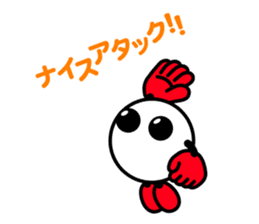
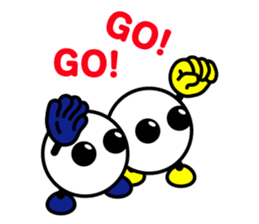
スタンプ送信画面実装

Changed region(s): [[0.1236, 0.0312, 0.8649, 0.9688]]

diff --git a/develop.html b/develop.html
@@ -38,12 +38,59 @@
 	</head>
 
 	<body>
+	<!-- 		スタンプ送信 -->
+		<div id="sendstamp">
+			<table>
+				<tbody>
+					<tr>
+						<td class="stamp">
+							<img src="html/image/babo/sticker_0.png">
+						</td>
+						<td class="stamp">
+							<img src="html/image/babo/sticker_1.png">
+						</td>
+						<td class="stamp">
+							<img src="html/image/babo/sticker_2.png">
+						</td>
+						<td class="stamp">
+							<img src="html/image/babo/sticker_3.png">
+						</td>
+					</tr>
+					<tr>
+						<td class="stamp">
+							<img src="html/image/babo/sticker_4.png">
+						</td>
+						<td class="stamp">
+							<img src="html/image/babo/sticker_5.png">
+						</td>
+						<td class="stamp">
+							<img src="html/image/babo/sticker_6.png">
+						</td>
+						<td class="stamp">
+							<img src="html/image/babo/sticker_7.png">
+						</td>
+					</tr>
+					<tr>
+						<td class="stamp">
+							<img src="html/image/babo/sticker_8.png">
+						</td>
+						<td class="stamp">
+							<img src="html/image/babo/sticker_9.png">
+						</td>
+						<td class="stamp"></td>
+						<td class="stamp"></td>
+					</tr>
+				</tbody>
+			</table>
+		</div>    
+		<!-- 		カメラ領域 -->
 		<video id="video" autoplay playsinline style="z-index: -2; height:100%; position:absolute; top:0px; left:0px; width: 100%;"></video>
+		<!-- 		スタンプアニメーション -->
 	  <div id="container" style="z-index: -1; height:100%; position:absolute; top:0px; left:0px; width: 100%; background: none;" class="main"></div>    
 	</body>
 	
 	<script type="text/javascript">
 			ThreeDD.main();
 			videoStart();
-		</script>
+	</script>
 </html>

diff --git a/html/js/camera.js b/html/js/camera.js
@@ -3,19 +3,17 @@ function videoStart(){
 	const medias = {
 		audio : false,
 		video : {
-      facingMode: {
-        exact : "environment" // リアカメラにアクセス
-      }
-    }
+	      facingMode: {
+	        exact : "environment" // リアカメラにアクセス
+	      }
+	    }
 	};
 
-	debugger;
 	video  = document.getElementById("video");
 	navigator.getUserMedia(medias, successCallback, errorCallback);	
 }
 
 function successCallback(stream) {
-	debugger;
   video.srcObject = stream;
 };
 

diff --git a/html/css/dashboard.css b/html/css/dashboard.css
@@ -404,3 +404,31 @@ div.element div.loader{
 	position: absolute;
 	top: 20px;
 }
+
+/* スタンプの幅を最適化 */
+#sendstamp{
+	z-index: 0;
+	height:160px;
+	position:absolute;
+	bottom:0px;
+	left:0px;
+	width: 100%;
+	background:
+	rgba(256,256,256,.24);
+}
+#sendstamp{
+	overflow-y: scroll;
+}
+#sendstamp table{
+	width: 100%;
+	padding: 0px 16px 0px 16px;
+}
+td.stamp{
+	width: 25%;
+}
+#sendstamp table td{
+	padding-top: 4px;
+}
+#sendstamp table td img{
+	width: 100%;
+}
